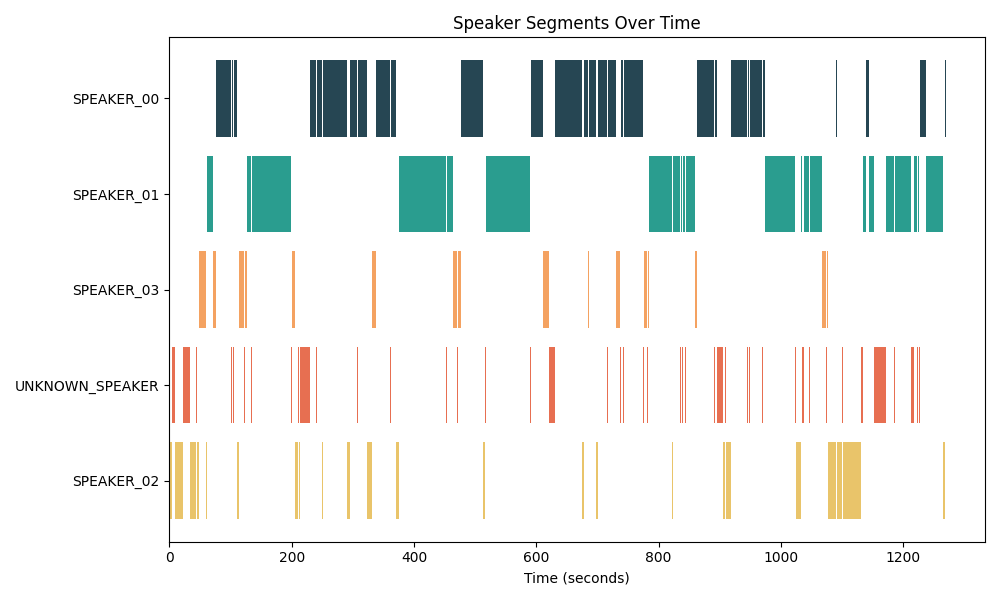
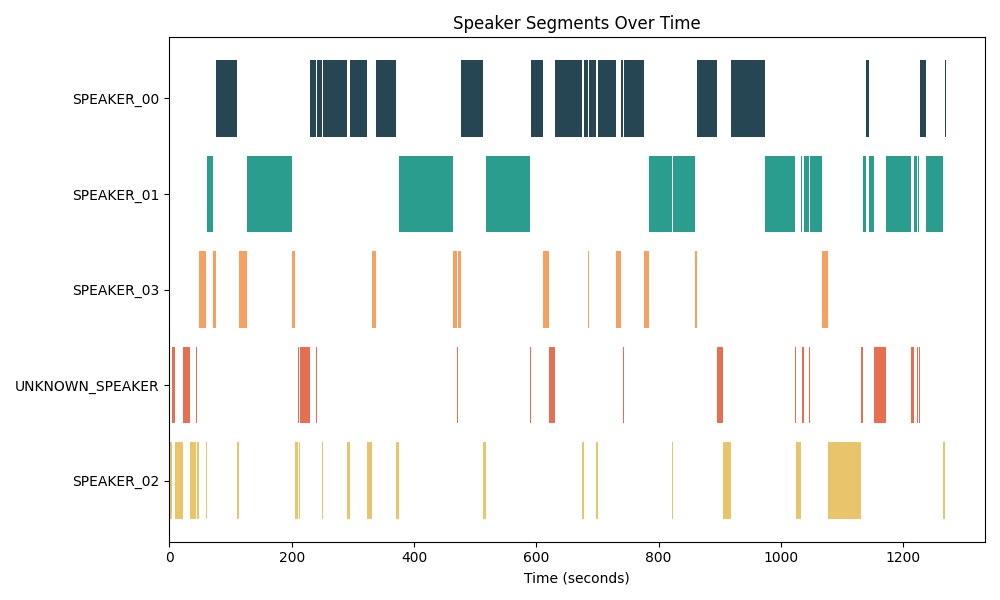
241014 audio compile

diff --git a/compile_final_video_copy.py b/compile_final_video_copy.py
@@ -107,7 +107,7 @@ def parse_channel_inference(file_path):
     return channel_inference 
     
 
-def smooth_short_segments(speaker_data, threshold=15):
+def smooth_short_segments(speaker_data, threshold=30):
 
     # 배열로 변환
     speaker_data = np.array(speaker_data)
@@ -300,6 +300,19 @@ def reverse_dict(input_dict):
     """
     return {value: key for key, value in input_dict.items()}
 
+def add_audio_to_video(video_path, audio_path, output_path):
+    # ffmpeg를 이용하여 오디오와 비디오를 합침
+    command = [
+        'ffmpeg',
+        '-i', video_path,
+        '-i', audio_path,
+        '-c:v', 'copy',
+        '-c:a', 'aac',
+        '-strict', 'experimental',
+        output_path
+    ]
+    subprocess.run(command, check=True)
+
 if __name__ == '__main__':
     # 38101 frames
     parser = argparse.ArgumentParser()
@@ -326,7 +339,7 @@ if __name__ == '__main__':
                         default='/NasData/home/ych/multi-channel-video-compile-2024/multi_channel_lip_infer_exp3.json')
     
     parser.add_argument('--final_video_path', type=str, 
-                        default='/NasData/home/ych/multi-channel-video-compile-2024/compiled_sample/sample_thelive_241012(5).mp4',
+                        default='/NasData/home/ych/multi-channel-video-compile-2024/compiled_sample/sample_thelive_241012(6).mp4',
                         help='final video path') 
     args = parser.parse_args()
 
@@ -375,8 +388,8 @@ if __name__ == '__main__':
 
     selected_channels[:len(trans_selected_channels)-1] = trans_selected_channels
 
-    with open('selected_channels.json', 'w') as f:
-        json.dump(selected_channels, f)
+    # with open('selected_channels.json', 'w') as f:
+    #     json.dump(selected_channels, f)
     # print(selected_channels) # @@@
     plot_segments(selected_channels, filename='/NasData/home/ych/multi-channel-video-compile-2024/compiled_sample/speaker_segments.png')
     plot_segments2(selected_channels, filename='/NasData/home/ych/multi-channel-video-compile-2024/compiled_sample/speaker_segments2.png')
@@ -404,8 +417,7 @@ if __name__ == '__main__':
     # exit()
 
     fourcc = cv2.VideoWriter_fourcc(*'mp4v')
-    temp_video_path = args.final_video_path.replace('.mp4', '_temp.mp4')
-    final_video = cv2.VideoWriter(temp_video_path, fourcc, 30, (1920, 1080))
+    final_video = cv2.VideoWriter(args.final_video_path, fourcc, 30, (1920, 1080))
     
     
     while True:
@@ -449,14 +461,8 @@ if __name__ == '__main__':
     for v in origin_videos:
         v.video.release()
 
-    print('Video compilation is done')
+    final_video_with_audio_path = args.final_video_path.replace('.mp4', '_with_audio.mp4')
+    add_audio_to_video(args.final_video_path, args.audio_path, final_video_with_audio_path)
+    
+    print(f"Final video with audio saved to: {final_video_with_audio_path}")
 
-    # MoviePy를 사용하여 오디오 추가
-    # temp_video_path = '/NasData/home/ych/multi-channel-video-compile-2024/compiled_sample/temp_video.mp4'
-    print('Adding audio to the final video...')
-    # temp_video_path = args.final_video_path.replace('.mp4', '_temp.mp4')
-    final_clip = VideoFileClip(temp_video_path)
-    audio_clip = AudioFileClip(args.audio_path)
-    final_video_with_audio = final_clip.set_audio(audio_clip)
-    final_video_with_audio.write_videofile(args.final_video_path, codec='libx264', audio_codec='aac', fps=fps)
-    os.remove(temp_video_path)
